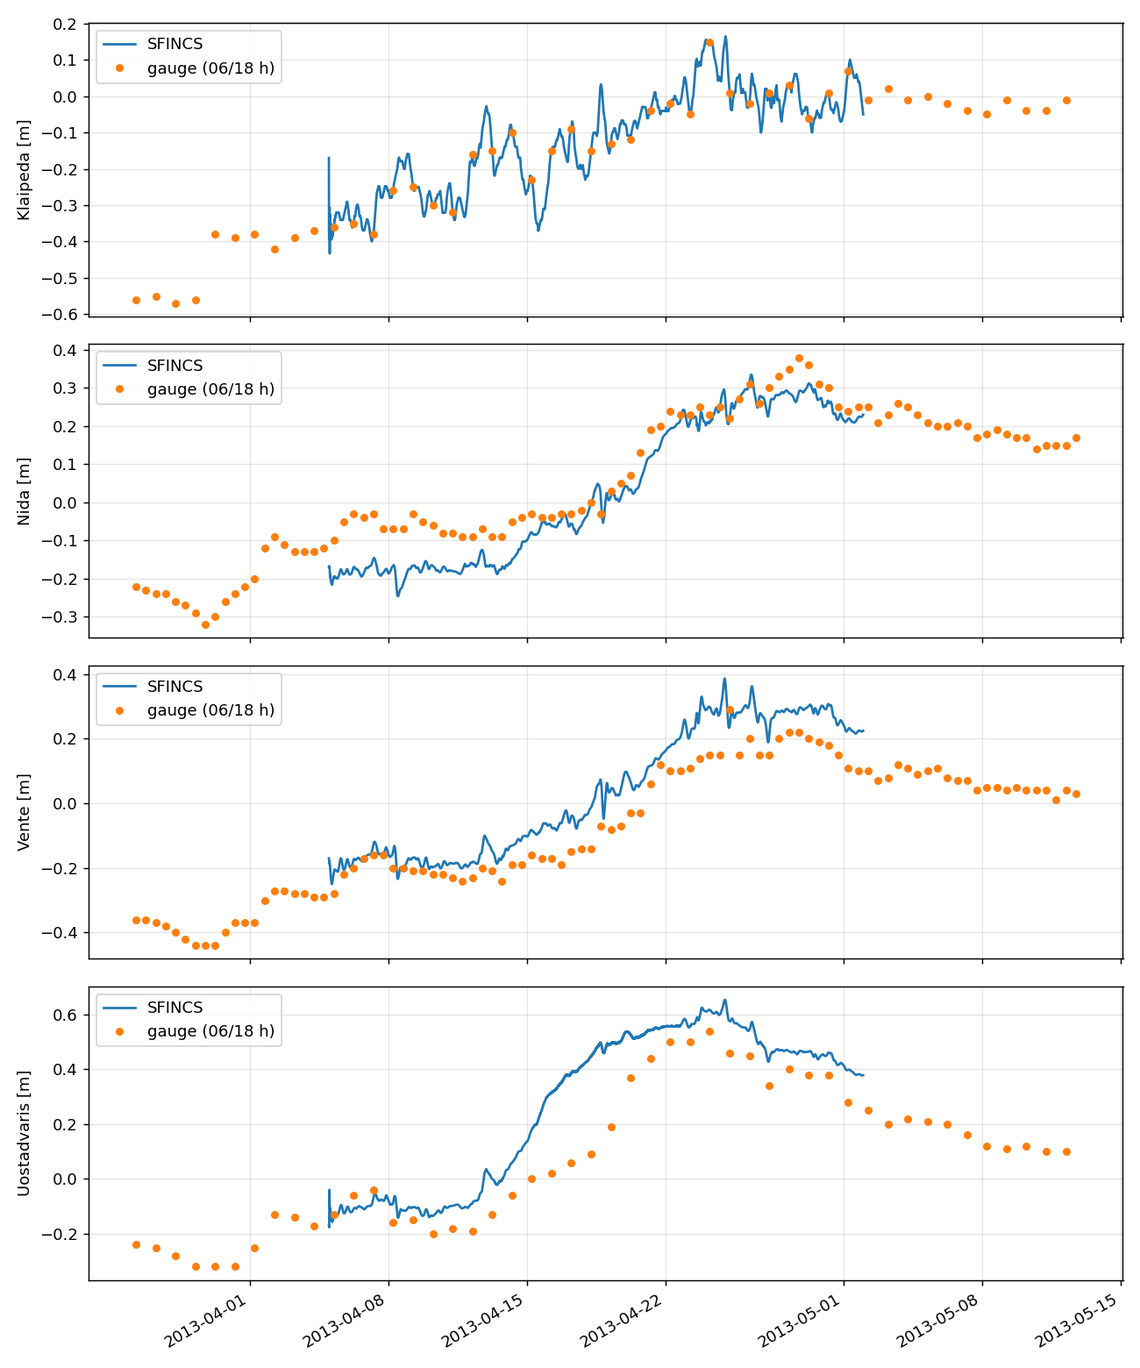
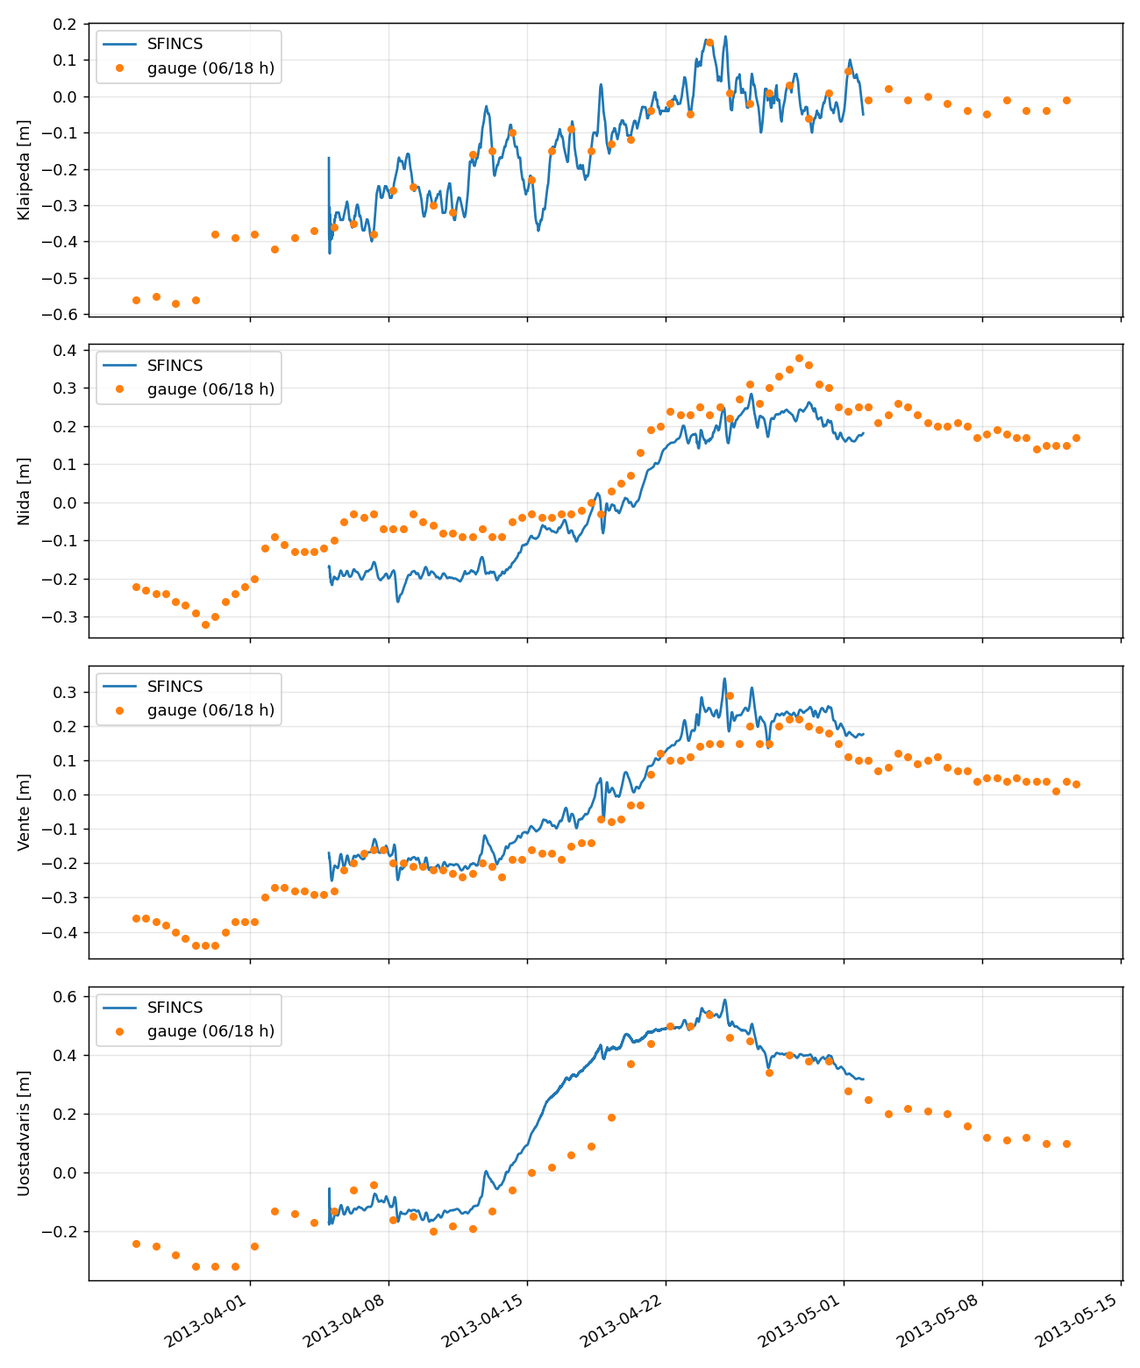
Re-run all six hindcasts on the corrected river inputs; keep the experiments
All six rebuilt, run, validated and map-cache re-exported (16 threads,
12:50-17:17) on the 0.896 x Smalininkai Nemunas share and the measured
Lankupiai Minija.

April, all three variants: 4 of 7 scored criteria met (was 5 of 7). A1
Uostadvaris peak +0.05..+0.07 m (was +0.11..+0.13), A3 delta-to-sea head
+0.01..+0.02 m (was +0.08..+0.09); A6a Rusne rise now fails at -0.20 m and
A2a/A2b still fail (the delta fills ~3.6 days early) -- both traced to an
unmodelled ice jam on the lower Atmata by the experiments below. Flooded
area 73.3 -> 63.5 km2 (gridded 60.2, 60.0).

Xaver, all three: C1, C2, C4 still met, every error within 1 cm of before;
flooded area 158.4 -> 157.1 km2 (gridded 130.7, 130.2).

results/experiments/ (not listed by the viewer) holds the three diagnostic
runs: april_2013_riverfix (Run A: the corrected inputs alone, identical to
the new baseline), april_2013_iceB (Run B: a thin dam plus timed type-5 gate
blocking the Atmata 4.4 km below Rusne until 18 Apr) and april_2013_iceC
(experiment 3: blocked from 12 Apr, released in two steps 18 and 21 Apr),
with their sfincs.thd / sfincs.drn.

The app test follows the new Xaver flooded area, 157.1 km2.

Claude-Session: https://claude.ai/code/session_01KRu4KRMkzuo3KBx1pDy9mh

diff --git a/app/test_sfincs_data.py b/app/test_sfincs_data.py
@@ -83,7 +83,7 @@ def test_unscored_verdicts_leave_the_denominator(monkeypatch):
 
 
 def test_flooded_area_is_read_from_the_report():
-    assert sd.flooded_area_km2(VARIANT) == pytest.approx(158.4)   # results/xaver_2013/validation.md since the fitted sea boundary
+    assert sd.flooded_area_km2(VARIANT) == pytest.approx(157.1)   # results/xaver_2013/validation.md since the corrected river inputs
 
 
 def test_both_metric_tables_are_parsed():

diff --git a/curonian/results/april_2013_gridwind/validation.md b/curonian/results/april_2013_gridwind/validation.md
@@ -5,27 +5,27 @@ Whole period: 2013-04-05 00:00 to 2013-05-02 00:00
 | station | n | bias m | RMSE m | r | peak err m | peak dt h |
 |---|---|---|---|---|---|---|
 | Klaipeda | 27 | +0.00 | 0.00 | 1.00 | +0.01 | +19 |
-| Nida | 54 | -0.06 | 0.07 | 0.98 | -0.04 | -58 |
-| Vente | 54 | +0.08 | 0.09 | 0.98 | +0.10 | -6 |
-| Uostadvaris | 27 | +0.12 | 0.15 | 0.93 | +0.11 | +18 |
+| Nida | 54 | -0.09 | 0.09 | 0.98 | -0.09 | -58 |
+| Vente | 54 | +0.05 | 0.06 | 0.97 | +0.05 | -6 |
+| Uostadvaris | 27 | +0.07 | 0.11 | 0.94 | +0.05 | +18 |
 
 Scoring window: 2013-04-13 00:00 to 2013-05-02 00:00
 
 | station | n | bias m | RMSE m | r | peak err m | peak dt h |
 |---|---|---|---|---|---|---|
 | Klaipeda | 19 | +0.00 | 0.00 | 1.00 | +0.01 | +19 |
-| Nida | 38 | -0.03 | 0.04 | 0.98 | -0.04 | -58 |
-| Vente | 38 | +0.10 | 0.10 | 0.97 | +0.10 | -6 |
-| Uostadvaris | 19 | +0.15 | 0.18 | 0.89 | +0.11 | +18 |
+| Nida | 38 | -0.07 | 0.08 | 0.98 | -0.09 | -58 |
+| Vente | 38 | +0.06 | 0.07 | 0.97 | +0.05 | -6 |
+| Uostadvaris | 19 | +0.09 | 0.13 | 0.90 | +0.05 | +18 |
 
-Flooded land in the delta window (depth > 5 cm, ground > 0 m): **70.2 km²**
+Flooded land in the delta window (depth > 5 cm, ground > 0 m): **60.2 km²**
 
 ### Success criteria (spec section 9)
-- A1 Uostadvaris peak [2013-04-13 00:00 to 2013-05-02 00:00]: **met** -- model peak 0.65 m vs gauge 0.54 m, err +0.11 m (threshold: peak err within +/-0.15 m)
-- A2a filling rate [first crossing of +0.20 m]: **not met** -- model 2013-04-15 10:10 vs gauge (interpolated) 2013-04-19 08:00, dt -94 h (threshold: within +/-24 h of the observed crossing)
-- A2b crest timing [2013-04-21 18:00 to 2013-04-24 18:00]: **not met** -- model peak 2013-04-25 00:10; observed plateau 22 Apr-24 Apr (threshold: model peak inside the observed plateau +/-12 h)
-- A3 delta-to-sea head [2013-04-22 00:00 to 2013-04-26 00:00]: **met** -- model 0.56 m vs gauge 0.48 m over 5 readings, err +0.08 m (threshold: mean head within +/-0.15 m)
+- A1 Uostadvaris peak [2013-04-13 00:00 to 2013-05-02 00:00]: **met** -- model peak 0.59 m vs gauge 0.54 m, err +0.05 m (threshold: peak err within +/-0.15 m)
+- A2a filling rate [first crossing of +0.20 m]: **not met** -- model 2013-04-15 18:00 vs gauge (interpolated) 2013-04-19 08:00, dt -86 h (threshold: within +/-24 h of the observed crossing)
+- A2b crest timing [2013-04-21 18:00 to 2013-04-24 18:00]: **not met** -- model peak 2013-04-25 00:20; observed plateau 22 Apr-24 Apr (threshold: model peak inside the observed plateau +/-12 h)
+- A3 delta-to-sea head [2013-04-22 00:00 to 2013-04-26 00:00]: **met** -- model 0.49 m vs gauge 0.48 m over 5 readings, err +0.01 m (threshold: mean head within +/-0.15 m)
 - A4 Klaipeda boundary fit [2013-04-13 00:00 to 2013-05-02 00:00]: **info** -- RMSE 0.001 m against an observed sd of 0.089 m (threshold: n/a -- the sea boundary is fitted to these readings; not an independent test)
 - A5 Silute uplands [whole run, delta window (325000, 6105000, 360000, 6145000)]: **met** -- 0.00% of land with ground > 3 m flooded (threshold: < 1 % flooded)
-- A6a Rusne rise [2013-04-13 00:00 to 2013-05-02 00:00]: **met** -- model 1.42 m vs gauge 1.53 m above the 05-11 Apr mean, err -0.11 m (daily values; gauge zero unknown, rise only) (threshold: rise within +/-0.15 m)
+- A6a Rusne rise [2013-04-13 00:00 to 2013-05-02 00:00]: **not met** -- model 1.33 m vs gauge 1.53 m above the 05-11 Apr mean, err -0.20 m (daily values; gauge zero unknown, rise only) (threshold: rise within +/-0.15 m)
 - A6b Rusne crest date [19 Apr to 24 Apr]: **met** -- model crest 21 Apr; observed plateau 20 Apr-23 Apr (threshold: model crest inside the observed plateau +/-1 day)

diff --git a/curonian/results/april_2013_gridwind_pressure/validation.md b/curonian/results/april_2013_gridwind_pressure/validation.md
@@ -5,27 +5,27 @@ Whole period: 2013-04-05 00:00 to 2013-05-02 00:00
 | station | n | bias m | RMSE m | r | peak err m | peak dt h |
 |---|---|---|---|---|---|---|
 | Klaipeda | 27 | +0.00 | 0.00 | 1.00 | +0.01 | +19 |
-| Nida | 54 | -0.06 | 0.07 | 0.98 | -0.05 | -58 |
-| Vente | 54 | +0.08 | 0.09 | 0.98 | +0.10 | -6 |
-| Uostadvaris | 27 | +0.12 | 0.15 | 0.93 | +0.11 | +18 |
+| Nida | 54 | -0.09 | 0.09 | 0.98 | -0.10 | -58 |
+| Vente | 54 | +0.05 | 0.06 | 0.97 | +0.05 | -6 |
+| Uostadvaris | 27 | +0.07 | 0.11 | 0.94 | +0.05 | +18 |
 
 Scoring window: 2013-04-13 00:00 to 2013-05-02 00:00
 
 | station | n | bias m | RMSE m | r | peak err m | peak dt h |
 |---|---|---|---|---|---|---|
 | Klaipeda | 19 | +0.00 | 0.00 | 1.00 | +0.01 | +19 |
-| Nida | 38 | -0.03 | 0.05 | 0.98 | -0.05 | -58 |
-| Vente | 38 | +0.09 | 0.10 | 0.97 | +0.10 | -6 |
-| Uostadvaris | 19 | +0.15 | 0.18 | 0.89 | +0.11 | +18 |
+| Nida | 38 | -0.07 | 0.08 | 0.98 | -0.10 | -58 |
+| Vente | 38 | +0.06 | 0.07 | 0.97 | +0.05 | -6 |
+| Uostadvaris | 19 | +0.09 | 0.13 | 0.90 | +0.05 | +18 |
 
-Flooded land in the delta window (depth > 5 cm, ground > 0 m): **70.0 km²**
+Flooded land in the delta window (depth > 5 cm, ground > 0 m): **60.0 km²**
 
 ### Success criteria (spec section 9)
-- A1 Uostadvaris peak [2013-04-13 00:00 to 2013-05-02 00:00]: **met** -- model peak 0.65 m vs gauge 0.54 m, err +0.11 m (threshold: peak err within +/-0.15 m)
-- A2a filling rate [first crossing of +0.20 m]: **not met** -- model 2013-04-15 12:20 vs gauge (interpolated) 2013-04-19 08:00, dt -92 h (threshold: within +/-24 h of the observed crossing)
-- A2b crest timing [2013-04-21 18:00 to 2013-04-24 18:00]: **not met** -- model peak 2013-04-25 00:10; observed plateau 22 Apr-24 Apr (threshold: model peak inside the observed plateau +/-12 h)
-- A3 delta-to-sea head [2013-04-22 00:00 to 2013-04-26 00:00]: **met** -- model 0.56 m vs gauge 0.48 m over 5 readings, err +0.08 m (threshold: mean head within +/-0.15 m)
+- A1 Uostadvaris peak [2013-04-13 00:00 to 2013-05-02 00:00]: **met** -- model peak 0.59 m vs gauge 0.54 m, err +0.05 m (threshold: peak err within +/-0.15 m)
+- A2a filling rate [first crossing of +0.20 m]: **not met** -- model 2013-04-15 18:20 vs gauge (interpolated) 2013-04-19 08:00, dt -86 h (threshold: within +/-24 h of the observed crossing)
+- A2b crest timing [2013-04-21 18:00 to 2013-04-24 18:00]: **not met** -- model peak 2013-04-25 00:20; observed plateau 22 Apr-24 Apr (threshold: model peak inside the observed plateau +/-12 h)
+- A3 delta-to-sea head [2013-04-22 00:00 to 2013-04-26 00:00]: **met** -- model 0.49 m vs gauge 0.48 m over 5 readings, err +0.01 m (threshold: mean head within +/-0.15 m)
 - A4 Klaipeda boundary fit [2013-04-13 00:00 to 2013-05-02 00:00]: **info** -- RMSE 0.001 m against an observed sd of 0.089 m (threshold: n/a -- the sea boundary is fitted to these readings; not an independent test)
 - A5 Silute uplands [whole run, delta window (325000, 6105000, 360000, 6145000)]: **met** -- 0.00% of land with ground > 3 m flooded (threshold: < 1 % flooded)
-- A6a Rusne rise [2013-04-13 00:00 to 2013-05-02 00:00]: **met** -- model 1.42 m vs gauge 1.53 m above the 05-11 Apr mean, err -0.11 m (daily values; gauge zero unknown, rise only) (threshold: rise within +/-0.15 m)
+- A6a Rusne rise [2013-04-13 00:00 to 2013-05-02 00:00]: **not met** -- model 1.33 m vs gauge 1.53 m above the 05-11 Apr mean, err -0.20 m (daily values; gauge zero unknown, rise only) (threshold: rise within +/-0.15 m)
 - A6b Rusne crest date [19 Apr to 24 Apr]: **met** -- model crest 21 Apr; observed plateau 20 Apr-23 Apr (threshold: model crest inside the observed plateau +/-1 day)

diff --git a/curonian/results/xaver_2013/validation.md b/curonian/results/xaver_2013/validation.md
@@ -5,25 +5,25 @@ Whole period: 2013-11-28 00:00 to 2013-12-11 00:00
 | station | n | bias m | RMSE m | r | peak err m | peak dt h |
 |---|---|---|---|---|---|---|
 | Klaipeda | 13 | +0.00 | 0.01 | 1.00 | +0.15 | +9 |
-| Nida | 26 | -0.00 | 0.07 | 0.88 | +0.02 | +2 |
-| Vente | 26 | +0.06 | 0.10 | 0.80 | +0.11 | +2 |
-| Uostadvaris | 13 | +0.00 | 0.05 | 0.93 | +0.08 | +0 |
+| Nida | 26 | -0.01 | 0.07 | 0.88 | +0.02 | +2 |
+| Vente | 26 | +0.05 | 0.10 | 0.79 | +0.10 | +2 |
+| Uostadvaris | 13 | -0.01 | 0.06 | 0.92 | +0.07 | +0 |
 
 Storm window: 2013-12-05 00:00 to 2013-12-09 00:00
 
 | station | n | bias m | RMSE m | r | peak err m | peak dt h |
 |---|---|---|---|---|---|---|
 | Klaipeda | 4 | +0.01 | 0.01 | 1.00 | +0.15 | +9 |
-| Nida | 8 | -0.06 | 0.12 | 0.79 | -0.01 | +0 |
-| Vente | 8 | +0.03 | 0.12 | 0.73 | +0.08 | -67 |
-| Uostadvaris | 4 | -0.02 | 0.08 | 0.90 | +0.08 | +0 |
+| Nida | 8 | -0.07 | 0.12 | 0.79 | -0.02 | +0 |
+| Vente | 8 | +0.02 | 0.12 | 0.73 | +0.08 | -67 |
+| Uostadvaris | 4 | -0.03 | 0.08 | 0.90 | +0.07 | +0 |
 
-Flooded land in the delta window (depth > 5 cm, ground > 0 m): **158.4 km²**
+Flooded land in the delta window (depth > 5 cm, ground > 0 m): **157.1 km²**
 
 ### Success criteria (spec section 9)
-- C1 Uostadvaris peak [2013-12-05 00:00 to 2013-12-09 00:00]: **met** -- model peak 2013-12-06 06:20, peak err +0.08 m, dt +0.3 h (threshold: peak err within +/-0.15 m and |dt| <= 6 h)
-- C2 Nida 8 Dec rise [2013-12-07 06:00 to 2013-12-08 18:00]: **met** -- model 0.41 m -> 0.83 m vs gauge 0.84 m, err -0.01 m, rise reproduced (threshold: err within +/-0.15 m (<=0.10 m for a clean 'met'), rise reproduced in sign)
+- C1 Uostadvaris peak [2013-12-05 00:00 to 2013-12-09 00:00]: **met** -- model peak 2013-12-06 06:20, peak err +0.07 m, dt +0.3 h (threshold: peak err within +/-0.15 m and |dt| <= 6 h)
+- C2 Nida 8 Dec rise [2013-12-07 06:00 to 2013-12-08 18:00]: **met** -- model 0.40 m -> 0.82 m vs gauge 0.84 m, err -0.02 m, rise reproduced (threshold: err within +/-0.15 m (<=0.10 m for a clean 'met'), rise reproduced in sign)
 - C3 Klaipeda boundary fit [2013-12-05 00:00 to 2013-12-09 00:00]: **info** -- storm RMSE 0.01 m (whole-period RMSE 0.01 m) (threshold: n/a -- the sea boundary is fitted to these readings; not an independent test)
 - C4 Silute uplands [delta window (325000, 6105000, 360000, 6145000)]: **met** -- 0.00% of land with ground > 3 m flooded (threshold: < 1 % flooded)
-- Info: Uostadvaris 8 Dec 06:00 [2013-12-08 06:00]: **info** -- model 0.74 m vs gauge 0.83 m, err -0.09 m (threshold: n/a (context only))
-- Info: Nida 8 Dec 06:00 [2013-12-08 06:00]: **info** -- model 0.62 m vs gauge 0.74 m, err -0.12 m (threshold: n/a (context only))
+- Info: Uostadvaris 8 Dec 06:00 [2013-12-08 06:00]: **info** -- model 0.73 m vs gauge 0.83 m, err -0.10 m (threshold: n/a (context only))
+- Info: Nida 8 Dec 06:00 [2013-12-08 06:00]: **info** -- model 0.61 m vs gauge 0.74 m, err -0.13 m (threshold: n/a (context only))

diff --git a/curonian/results/xaver_2013_gridwind_pressure/validation.md b/curonian/results/xaver_2013_gridwind_pressure/validation.md
@@ -5,25 +5,25 @@ Whole period: 2013-11-28 00:00 to 2013-12-11 00:00
 | station | n | bias m | RMSE m | r | peak err m | peak dt h |
 |---|---|---|---|---|---|---|
 | Klaipeda | 13 | +0.00 | 0.00 | 1.00 | +0.15 | -6 |
-| Nida | 26 | -0.00 | 0.06 | 0.92 | -0.00 | +2 |
-| Vente | 26 | +0.06 | 0.09 | 0.87 | +0.07 | +1 |
-| Uostadvaris | 13 | -0.01 | 0.04 | 0.96 | +0.01 | +0 |
+| Nida | 26 | -0.01 | 0.06 | 0.92 | -0.01 | +2 |
+| Vente | 26 | +0.06 | 0.08 | 0.87 | +0.07 | +1 |
+| Uostadvaris | 13 | -0.02 | 0.04 | 0.96 | -0.00 | +0 |
 
 Storm window: 2013-12-05 00:00 to 2013-12-09 00:00
 
 | station | n | bias m | RMSE m | r | peak err m | peak dt h |
 |---|---|---|---|---|---|---|
 | Klaipeda | 4 | +0.00 | 0.01 | 1.00 | +0.15 | -6 |
-| Nida | 8 | -0.04 | 0.09 | 0.85 | -0.03 | +0 |
-| Vente | 8 | +0.04 | 0.09 | 0.79 | +0.07 | +0 |
-| Uostadvaris | 4 | -0.03 | 0.06 | 0.94 | +0.01 | +0 |
+| Nida | 8 | -0.05 | 0.09 | 0.85 | -0.03 | +0 |
+| Vente | 8 | +0.04 | 0.09 | 0.79 | +0.06 | +0 |
+| Uostadvaris | 4 | -0.04 | 0.06 | 0.94 | -0.00 | +0 |
 
-Flooded land in the delta window (depth > 5 cm, ground > 0 m): **131.3 km²**
+Flooded land in the delta window (depth > 5 cm, ground > 0 m): **130.2 km²**
 
 ### Success criteria (spec section 9)
-- C1 Uostadvaris peak [2013-12-05 00:00 to 2013-12-09 00:00]: **met** -- model peak 2013-12-06 06:20, peak err +0.01 m, dt +0.3 h (threshold: peak err within +/-0.15 m and |dt| <= 6 h)
-- C2 Nida 8 Dec rise [2013-12-07 06:00 to 2013-12-08 18:00]: **met** -- model 0.44 m -> 0.81 m vs gauge 0.84 m, err -0.03 m, rise reproduced (threshold: err within +/-0.15 m (<=0.10 m for a clean 'met'), rise reproduced in sign)
+- C1 Uostadvaris peak [2013-12-05 00:00 to 2013-12-09 00:00]: **met** -- model peak 2013-12-06 06:20, peak err -0.00 m, dt +0.3 h (threshold: peak err within +/-0.15 m and |dt| <= 6 h)
+- C2 Nida 8 Dec rise [2013-12-07 06:00 to 2013-12-08 18:00]: **met** -- model 0.43 m -> 0.81 m vs gauge 0.84 m, err -0.03 m, rise reproduced (threshold: err within +/-0.15 m (<=0.10 m for a clean 'met'), rise reproduced in sign)
 - C3 Klaipeda boundary fit [2013-12-05 00:00 to 2013-12-09 00:00]: **info** -- storm RMSE 0.01 m (whole-period RMSE 0.00 m) (threshold: n/a -- the sea boundary is fitted to these readings; not an independent test)
 - C4 Silute uplands [delta window (325000, 6105000, 360000, 6145000)]: **met** -- 0.00% of land with ground > 3 m flooded (threshold: < 1 % flooded)
-- Info: Uostadvaris 8 Dec 06:00 [2013-12-08 06:00]: **info** -- model 0.75 m vs gauge 0.83 m, err -0.08 m (threshold: n/a (context only))
+- Info: Uostadvaris 8 Dec 06:00 [2013-12-08 06:00]: **info** -- model 0.74 m vs gauge 0.83 m, err -0.09 m (threshold: n/a (context only))
 - Info: Nida 8 Dec 06:00 [2013-12-08 06:00]: **info** -- model 0.64 m vs gauge 0.74 m, err -0.10 m (threshold: n/a (context only))

diff --git a/curonian/results/experiments/april_2013_iceB/validation.md b/curonian/results/experiments/april_2013_iceB/validation.md
@@ -1,0 +1,31 @@
+# April 2013 Nemunas freshet validation
+
+Whole period: 2013-04-05 00:00 to 2013-05-02 00:00
+
+| station | n | bias m | RMSE m | r | peak err m | peak dt h |
+|---|---|---|---|---|---|---|
+| Klaipeda | 27 | +0.00 | 0.00 | 1.00 | +0.02 | +19 |
+| Nida | 54 | -0.08 | 0.09 | 0.98 | -0.07 | -58 |
+| Vente | 54 | +0.05 | 0.07 | 0.98 | +0.08 | -6 |
+| Uostadvaris | 27 | -0.00 | 0.08 | 0.97 | +0.07 | +18 |
+
+Scoring window: 2013-04-13 00:00 to 2013-05-02 00:00
+
+| station | n | bias m | RMSE m | r | peak err m | peak dt h |
+|---|---|---|---|---|---|---|
+| Klaipeda | 19 | +0.00 | 0.00 | 1.00 | +0.02 | +19 |
+| Nida | 38 | -0.06 | 0.07 | 0.98 | -0.07 | -58 |
+| Vente | 38 | +0.07 | 0.08 | 0.97 | +0.08 | -6 |
+| Uostadvaris | 19 | +0.02 | 0.09 | 0.94 | +0.07 | +18 |
+
+Flooded land in the delta window (depth > 5 cm, ground > 0 m): **84.5 km²**
+
+### Success criteria (spec section 9)
+- A1 Uostadvaris peak [2013-04-13 00:00 to 2013-05-02 00:00]: **met** -- model peak 0.61 m vs gauge 0.54 m, err +0.07 m (threshold: peak err within +/-0.15 m)
+- A2a filling rate [first crossing of +0.20 m]: **met** -- model 2013-04-18 13:10 vs gauge (interpolated) 2013-04-19 08:00, dt -19 h (threshold: within +/-24 h of the observed crossing)
+- A2b crest timing [2013-04-21 18:00 to 2013-04-24 18:00]: **not met** -- model peak 2013-04-25 00:20; observed plateau 22 Apr-24 Apr (threshold: model peak inside the observed plateau +/-12 h)
+- A3 delta-to-sea head [2013-04-22 00:00 to 2013-04-26 00:00]: **met** -- model 0.49 m vs gauge 0.48 m over 5 readings, err +0.02 m (threshold: mean head within +/-0.15 m)
+- A4 Klaipeda boundary fit [2013-04-13 00:00 to 2013-05-02 00:00]: **info** -- RMSE 0.002 m against an observed sd of 0.089 m (threshold: n/a -- the sea boundary is fitted to these readings; not an independent test)
+- A5 Silute uplands [whole run, delta window (325000, 6105000, 360000, 6145000)]: **met** -- 0.00% of land with ground > 3 m flooded (threshold: < 1 % flooded)
+- A6a Rusne rise [2013-04-13 00:00 to 2013-05-02 00:00]: **not met** -- model 1.23 m vs gauge 1.53 m above the 05-11 Apr mean, err -0.30 m (daily values; gauge zero unknown, rise only) (threshold: rise within +/-0.15 m)
+- A6b Rusne crest date [19 Apr to 24 Apr]: **not met** -- model crest 18 Apr; observed plateau 20 Apr-23 Apr (threshold: model crest inside the observed plateau +/-1 day)

diff --git a/curonian/results/experiments/april_2013_iceC/validation.md b/curonian/results/experiments/april_2013_iceC/validation.md
@@ -1,0 +1,31 @@
+# April 2013 Nemunas freshet validation
+
+Whole period: 2013-04-05 00:00 to 2013-05-02 00:00
+
+| station | n | bias m | RMSE m | r | peak err m | peak dt h |
+|---|---|---|---|---|---|---|
+| Klaipeda | 27 | +0.00 | 0.00 | 1.00 | +0.02 | +19 |
+| Nida | 54 | -0.08 | 0.09 | 0.98 | -0.07 | -58 |
+| Vente | 54 | +0.05 | 0.07 | 0.98 | +0.08 | -6 |
+| Uostadvaris | 27 | +0.03 | 0.09 | 0.95 | +0.07 | +18 |
+
+Scoring window: 2013-04-13 00:00 to 2013-05-02 00:00
+
+| station | n | bias m | RMSE m | r | peak err m | peak dt h |
+|---|---|---|---|---|---|---|
+| Klaipeda | 19 | +0.00 | 0.00 | 1.00 | +0.02 | +19 |
+| Nida | 38 | -0.06 | 0.07 | 0.98 | -0.07 | -58 |
+| Vente | 38 | +0.07 | 0.08 | 0.97 | +0.08 | -6 |
+| Uostadvaris | 19 | +0.03 | 0.10 | 0.92 | +0.07 | +18 |
+
+Flooded land in the delta window (depth > 5 cm, ground > 0 m): **81.3 km²**
+
+### Success criteria (spec section 9)
+- A1 Uostadvaris peak [2013-04-13 00:00 to 2013-05-02 00:00]: **met** -- model peak 0.61 m vs gauge 0.54 m, err +0.07 m (threshold: peak err within +/-0.15 m)
+- A2a filling rate [first crossing of +0.20 m]: **not met** -- model 2013-04-18 03:10 vs gauge (interpolated) 2013-04-19 08:00, dt -29 h (threshold: within +/-24 h of the observed crossing)
+- A2b crest timing [2013-04-21 18:00 to 2013-04-24 18:00]: **not met** -- model peak 2013-04-25 00:20; observed plateau 22 Apr-24 Apr (threshold: model peak inside the observed plateau +/-12 h)
+- A3 delta-to-sea head [2013-04-22 00:00 to 2013-04-26 00:00]: **met** -- model 0.49 m vs gauge 0.48 m over 5 readings, err +0.02 m (threshold: mean head within +/-0.15 m)
+- A4 Klaipeda boundary fit [2013-04-13 00:00 to 2013-05-02 00:00]: **info** -- RMSE 0.002 m against an observed sd of 0.089 m (threshold: n/a -- the sea boundary is fitted to these readings; not an independent test)
+- A5 Silute uplands [whole run, delta window (325000, 6105000, 360000, 6145000)]: **met** -- 0.00% of land with ground > 3 m flooded (threshold: < 1 % flooded)
+- A6a Rusne rise [2013-04-13 00:00 to 2013-05-02 00:00]: **met** -- model 1.55 m vs gauge 1.53 m above the 05-11 Apr mean, err +0.03 m (daily values; gauge zero unknown, rise only) (threshold: rise within +/-0.15 m)
+- A6b Rusne crest date [19 Apr to 24 Apr]: **not met** -- model crest 17 Apr; observed plateau 20 Apr-23 Apr (threshold: model crest inside the observed plateau +/-1 day)

diff --git a/curonian/results/xaver_2013_gridwind/validation.md b/curonian/results/xaver_2013_gridwind/validation.md
@@ -5,23 +5,23 @@ Whole period: 2013-11-28 00:00 to 2013-12-11 00:00
 | station | n | bias m | RMSE m | r | peak err m | peak dt h |
 |---|---|---|---|---|---|---|
 | Klaipeda | 13 | +0.00 | 0.00 | 1.00 | +0.15 | -6 |
-| Nida | 26 | +0.00 | 0.05 | 0.93 | +0.01 | +2 |
-| Vente | 26 | +0.07 | 0.09 | 0.88 | +0.09 | +2 |
-| Uostadvaris | 13 | -0.01 | 0.04 | 0.97 | +0.01 | +0 |
+| Nida | 26 | -0.00 | 0.05 | 0.93 | +0.01 | +2 |
+| Vente | 26 | +0.06 | 0.09 | 0.88 | +0.08 | +2 |
+| Uostadvaris | 13 | -0.01 | 0.04 | 0.97 | -0.00 | +0 |
 
 Storm window: 2013-12-05 00:00 to 2013-12-09 00:00
 
 | station | n | bias m | RMSE m | r | peak err m | peak dt h |
 |---|---|---|---|---|---|---|
 | Klaipeda | 4 | +0.00 | 0.01 | 1.00 | +0.15 | -6 |
-| Nida | 8 | -0.03 | 0.08 | 0.87 | -0.02 | +0 |
-| Vente | 8 | +0.05 | 0.10 | 0.80 | +0.08 | +0 |
-| Uostadvaris | 4 | -0.03 | 0.05 | 0.94 | +0.01 | +0 |
+| Nida | 8 | -0.04 | 0.08 | 0.87 | -0.02 | +0 |
+| Vente | 8 | +0.04 | 0.09 | 0.81 | +0.07 | +0 |
+| Uostadvaris | 4 | -0.03 | 0.06 | 0.94 | -0.00 | +0 |
 
-Flooded land in the delta window (depth > 5 cm, ground > 0 m): **131.7 km²**
+Flooded land in the delta window (depth > 5 cm, ground > 0 m): **130.7 km²**
 
 ### Success criteria (spec section 9)
-- C1 Uostadvaris peak [2013-12-05 00:00 to 2013-12-09 00:00]: **met** -- model peak 2013-12-06 06:10, peak err +0.01 m, dt +0.2 h (threshold: peak err within +/-0.15 m and |dt| <= 6 h)
+- C1 Uostadvaris peak [2013-12-05 00:00 to 2013-12-09 00:00]: **met** -- model peak 2013-12-06 06:20, peak err -0.00 m, dt +0.3 h (threshold: peak err within +/-0.15 m and |dt| <= 6 h)
 - C2 Nida 8 Dec rise [2013-12-07 06:00 to 2013-12-08 18:00]: **met** -- model 0.45 m -> 0.82 m vs gauge 0.84 m, err -0.02 m, rise reproduced (threshold: err within +/-0.15 m (<=0.10 m for a clean 'met'), rise reproduced in sign)
 - C3 Klaipeda boundary fit [2013-12-05 00:00 to 2013-12-09 00:00]: **info** -- storm RMSE 0.01 m (whole-period RMSE 0.00 m) (threshold: n/a -- the sea boundary is fitted to these readings; not an independent test)
 - C4 Silute uplands [delta window (325000, 6105000, 360000, 6145000)]: **met** -- 0.00% of land with ground > 3 m flooded (threshold: < 1 % flooded)

diff --git a/curonian/results/experiments/april_2013_riverfix/validation.md b/curonian/results/experiments/april_2013_riverfix/validation.md
@@ -7,7 +7,7 @@ Whole period: 2013-04-05 00:00 to 2013-05-02 00:00
 | Klaipeda | 27 | +0.00 | 0.00 | 1.00 | +0.02 | +19 |
 | Nida | 54 | -0.08 | 0.09 | 0.98 | -0.08 | -58 |
 | Vente | 54 | +0.06 | 0.07 | 0.97 | +0.07 | -6 |
-| Uostadvaris | 27 | +0.07 | 0.11 | 0.94 | +0.07 | +18 |
+| Uostadvaris | 27 | +0.07 | 0.12 | 0.94 | +0.07 | +18 |
 
 Scoring window: 2013-04-13 00:00 to 2013-05-02 00:00
 
@@ -22,7 +22,7 @@ Flooded land in the delta window (depth > 5 cm, ground > 0 m): **63.5 km²**
 
 ### Success criteria (spec section 9)
 - A1 Uostadvaris peak [2013-04-13 00:00 to 2013-05-02 00:00]: **met** -- model peak 0.61 m vs gauge 0.54 m, err +0.07 m (threshold: peak err within +/-0.15 m)
-- A2a filling rate [first crossing of +0.20 m]: **not met** -- model 2013-04-15 17:00 vs gauge (interpolated) 2013-04-19 08:00, dt -87 h (threshold: within +/-24 h of the observed crossing)
+- A2a filling rate [first crossing of +0.20 m]: **not met** -- model 2013-04-15 16:50 vs gauge (interpolated) 2013-04-19 08:00, dt -87 h (threshold: within +/-24 h of the observed crossing)
 - A2b crest timing [2013-04-21 18:00 to 2013-04-24 18:00]: **not met** -- model peak 2013-04-25 00:10; observed plateau 22 Apr-24 Apr (threshold: model peak inside the observed plateau +/-12 h)
 - A3 delta-to-sea head [2013-04-22 00:00 to 2013-04-26 00:00]: **met** -- model 0.50 m vs gauge 0.48 m over 5 readings, err +0.02 m (threshold: mean head within +/-0.15 m)
 - A4 Klaipeda boundary fit [2013-04-13 00:00 to 2013-05-02 00:00]: **info** -- RMSE 0.002 m against an observed sd of 0.089 m (threshold: n/a -- the sea boundary is fitted to these readings; not an independent test)
